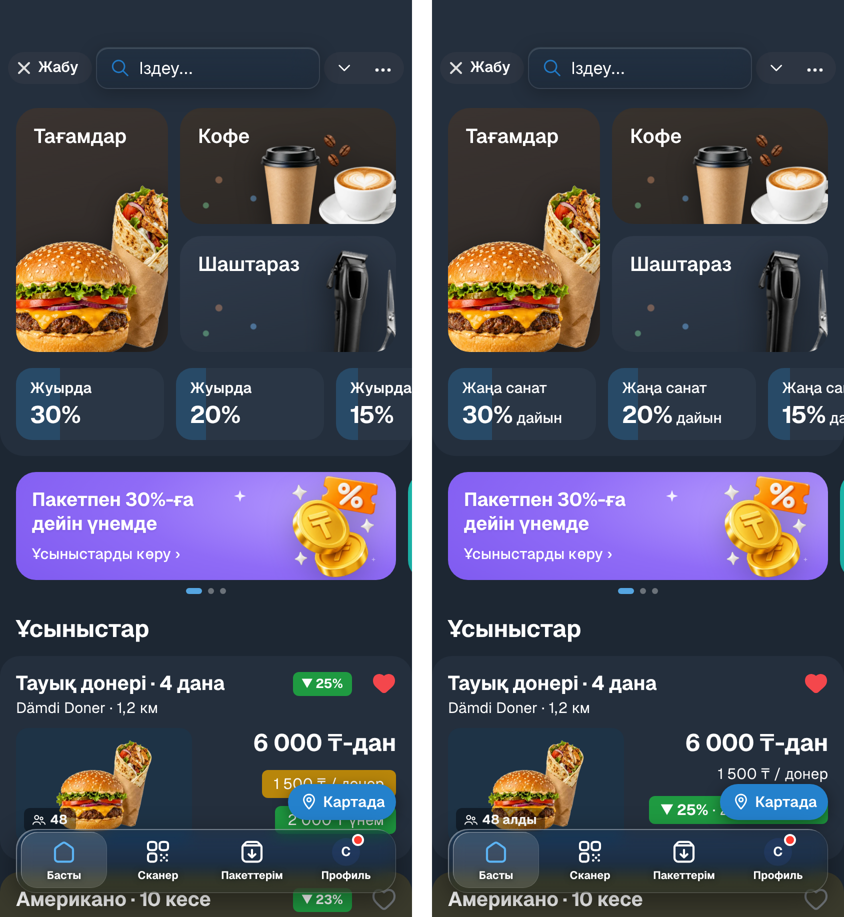
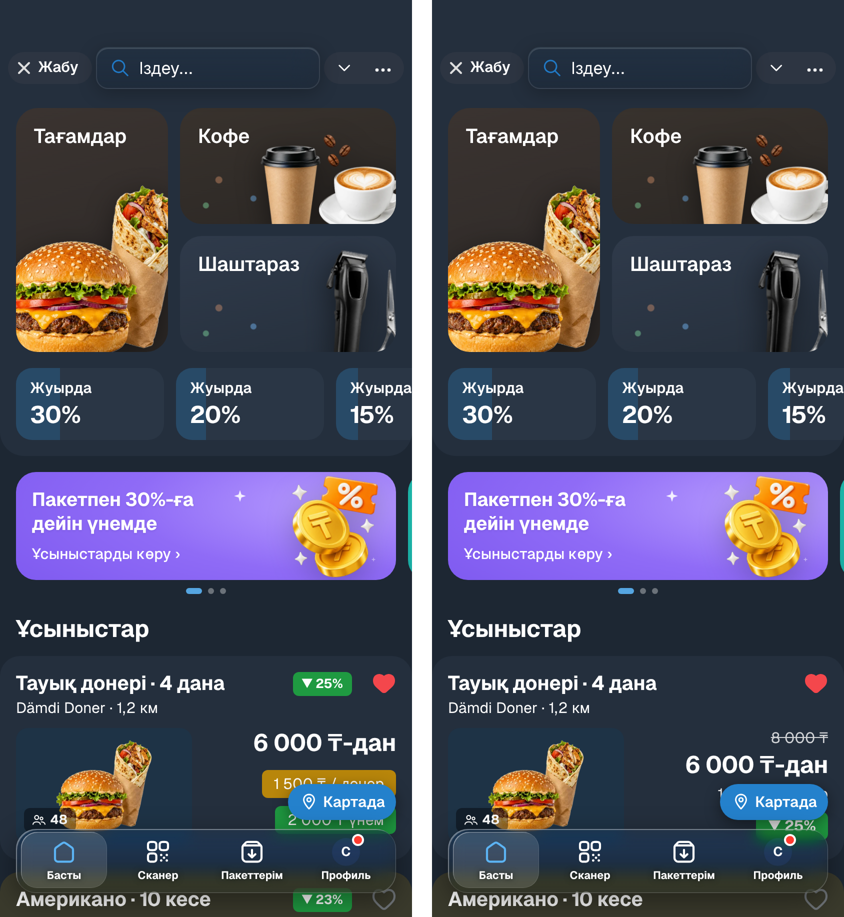
Squirrel.: Патшаның 2-кезең түзетулері — тек ▼%, сызылған ескі баға үстінде, «алды» алынды, Жуырда қайтарылды, әдет сөйлемі алынды [Алтай]
Claude-Session: https://claude.ai/code/session_015J2ZdUDTV6e7vMz5NXm4As

diff --git a/Squirrel./src/ui/OfferCard.tsx b/Squirrel./src/ui/OfferCard.tsx
@@ -44,12 +44,14 @@ export function OfferCard({ offer, ended: endedProp }: { offer: Offer; ended?: b
         {offer.photo && !broken ? <Photo src={offer.photo.replace(/([?&])w=\d+/, "$1w=480")} kind={offer.kind} className={s.photo} alt="" loading="lazy" decoding="async" width={176} height={116} onError={() => setBroken(true)} /> : <img src={kindPic[offer.kind]} className={s.thumbIcon} width={96} height={96} alt="" decoding="sync" />}
         <span className={s.buyers}>
           <img src={group} width={14} height={14} alt="" />
-          <span className="t-cap1 w-700">{`${offer.buyers} алды`}</span>
+          <span className="t-cap1 w-700">{offer.buyers}</span>
         </span>
         {left != null && <span className={`t-cap1 ${s.left} ${left > 10 ? s.leftCalm : ""}`}>{`Қалды ${left} / ${offer.limit!.monthly}`}</span>}
         {offer.deadline && <span className={`t-cap1 ${s.deadline}`}>{offer.deadline}</span>}
       </div>
       {/* Бірнеше көлем болса — ең арзан көлемнің бағасы «-дан» деп (Патша, 2026-11-18) */}
+      {/* Squirrel.: бағаның үстінде — жеңілдіксіз бағасы, көмескі әрі сызылған */}
+      {!ended && <s className={s.oldPrice}>{fmt(offer.sizes && offer.sizes.length > 1 ? [...offer.sizes].sort((a, b) => a.price - b.price)[0].oldPrice : offer.oldPrice)}</s>}
       <p className={s.price}>{offer.sizes && offer.sizes.length > 1 ? `${fmt(Math.min(...offer.sizes.map((x) => x.price)))}-дан` : fmt(offer.price)}</p>
       {ended ? <>
         <span className={`t-cap1 ${s.over}`}>{soldOut ? "Таусылды" : "Аяқталды"}</span>
@@ -59,7 +61,7 @@ export function OfferCard({ offer, ended: endedProp }: { offer: Offer; ended?: b
       </> : <>
         {/* Squirrel.: үш түрлі түсті белгінің орнына — бір жасыл белгі (жеңілдік + үнем), дана бағасы жай мәтін */}
         <span className={s.unit}>{fmt(unitPrice(offer))} / {offer.unitWord}</span>
-        <span className={s.saving}><b>▼ {discount(offer)}%</b>{` · ${fmt(saving(offer))} үнем`}</span>
+        <span className={s.saving}><b>▼ {discount(offer)}%</b></span>
       </>}
     </Link>
   );

diff --git a/Squirrel./src/screens/Offer.tsx b/Squirrel./src/screens/Offer.tsx
@@ -204,7 +204,6 @@ function OfferView({ id }: { id?: string }) {
           </p>
           {venue?.trust != null && <p className={s.trust}><span aria-hidden>✓</span>{`Сенімді мекеме · ${venue.trust}% қызмет шағымсыз`}</p>}
           {/* Бағадан бұрын контекст (Хормози): клиент әдетте қанша төлейтінін көрсетіп, сосын пакет бағасы */}
-          {!ended && <p className={s.context}>{habitText(offer.units, d.days ?? 30, offer.unitWord, offer.oldPrice)}</p>}
           <div className={s.priceRow}>
             <div>
               <p className={`${s.priceLine} ${ended ? s.dim : ""}`}><span key={offer.price} className={s.swap}>{fmt(offer.price)}</span></p>
@@ -212,7 +211,7 @@ function OfferView({ id }: { id?: string }) {
             </div>
             <div className={s.badges} style={ended ? { visibility: "hidden" } : undefined}>
               {/* Squirrel.: бір жасыл белгі (жеңілдік + үнем) және дана бағасы жай мәтін — бағамен таласпайды */}
-              <span className={`${s.badge} ${s.green}`}><b>▼ {discount(offer)}%</b>{` · ${fmt(saving(offer))} үнем`}</span>
+              <span className={`${s.badge} ${s.green}`}><b>▼ {discount(offer)}%</b></span>
               <span className={s.unitText}>{fmt(unitPrice(offer))} / {offer.unitWord}</span>
             </div>
           </div>

diff --git a/Squirrel./src/ui/OfferCard.module.css b/Squirrel./src/ui/OfferCard.module.css
@@ -45,8 +45,11 @@
    2) Оң баған иерархиясы: баға (24/700) → дана бағасы (15, екінші деңгей мәтін, белгісіз) → бір жасыл белгі.
       Бұрын бір карточкада 3 түсті белгі (жасыл ▼25%, сары дана бағасы, жасыл үнем) бір-бірімен таласатын. */
 .title { max-width: calc(100% - 72px); }
-.unit { top: 108px; height: 20px; padding: 0; background: none !important; color: var(--hint); }
-.saving { top: 140px; }
+.unit { top: 128px; height: 20px; padding: 0; background: none !important; color: var(--hint); }
+.saving { top: 156px; }
 /* «N алды» белгісі кеңейді — «2 күн қалды» енді фотоның оң жақ төменгі бұрышында, бір-бірін баспайды */
 .deadline { left: auto; right: 8px; top: 8px; }
 .saving b { font-weight: 700; }
+.oldPrice { position: absolute; right: 16px; top: 72px; font-size: 15px; line-height: 20px; color: var(--hint); opacity: 0.8; text-decoration: line-through; white-space: nowrap; }
+.oldPrice ~ .price { top: 94px; }
+/* «▼ 25%» сары/жасыл фондағы жалғыз белгі — «31» белгісі бұрынғыдай тек сан */

diff --git a/Squirrel./src/screens/Home.tsx b/Squirrel./src/screens/Home.tsx
@@ -53,9 +53,8 @@ export function Home() {
           {soon.map((x, i) => (
             <button key={x.pct} className={s.soon} onClick={() => { haptic.tap(); setSheet(x); }}>
               <span className={s.soonFill} style={{ width: x.fill, animationDelay: `${0.15 + i * 0.08}s` }} />
-              {/* Squirrel.: «Жуырда 30%» түсініксіз еді (30% жеңілдік пе?) — енді «Жаңа санат · 30% дайын» */}
-              <span className={s.soonLabel}>Жаңа санат</span>
-              <span className={s.soonPct}>{x.pct}%<small className={s.soonUnit}> дайын</small></span>
+              <span className={s.soonLabel}>Жуырда</span>
+              <span className={s.soonPct}>{x.pct}%</span>
             </button>
           ))}
         </div>

diff --git a/Squirrel./src/i18n/ru.ts b/Squirrel./src/i18n/ru.ts
@@ -1058,6 +1058,7 @@ export const RU: Record<string, string> = {" (сіз)":" (вы)",
 "Жс":"Вс",
 "Журнал":"Журнал",
 "Журнал жазбаларын өшіруге немесе өзгертуге болмайды.":"Записи журнала нельзя удалить или изменить.",
+"Жуырда":"Скоро",
 "Жуырда ашылады":"Скоро откроется",
 "Жуырдағы":"Недавние",
 "Жылдам":"Быстро",

diff --git a/Squirrel./src/screens/Home.module.css b/Squirrel./src/screens/Home.module.css
@@ -46,7 +46,3 @@
 /* Басқан сәтте бірден көрінетін жауап (Патша, 2026-11-16) */
 .soon { transition: transform 0.12s ease; }
 .soon:active { transform: scale(0.96); }
-
-/* Squirrel.: «дайын» сөзі пайыздан кіші әрі әлсіз — сан басты, сөз түсіндіреді */
-.soonUnit { font-size: 15px; line-height: 20px; font-weight: 500; color: var(--hint); }
-.soonLabel { color: var(--hint); font-weight: 500; }
